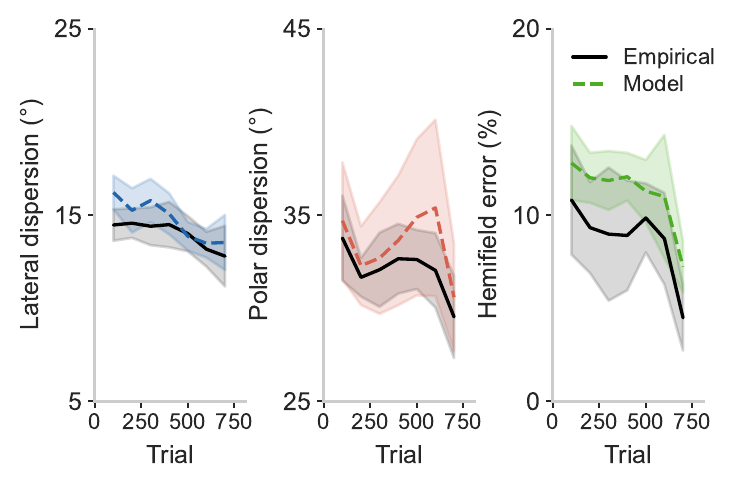
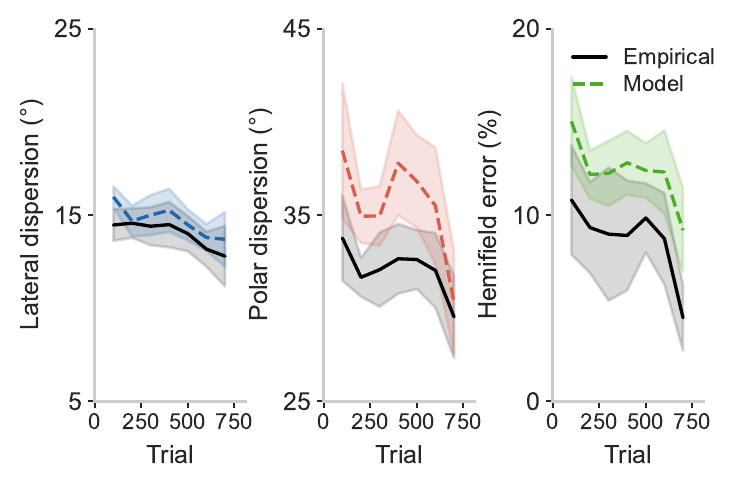
README: figures regenerated from the corrected fits, add belief trajectories

Changed region(s): [[0.4322, 0.184, 0.6174, 0.6748], [0.7409, 0.1534, 0.9262, 0.5828], [0.1544, 0.3681, 0.3087, 0.5521]]

diff --git a/README.md b/README.md
@@ -8,6 +8,8 @@ Sound-localisation learning with visual feedback is modelled as trial-by-trial b
 
 ![Group-average behavioural trajectories: empirical (solid) and model (dashed)](figures/fig_behavioral.png)
 
+![Belief trajectories: lateral precision, polar precision and hemifield weight per listener (thin) and group mean (black)](figures/fig_param_avg.png)
+
 ## Contents
 
 - `MAIN_fep_simulation.ipynb`: model equations, fitting, Figure 3 and the R² values.
